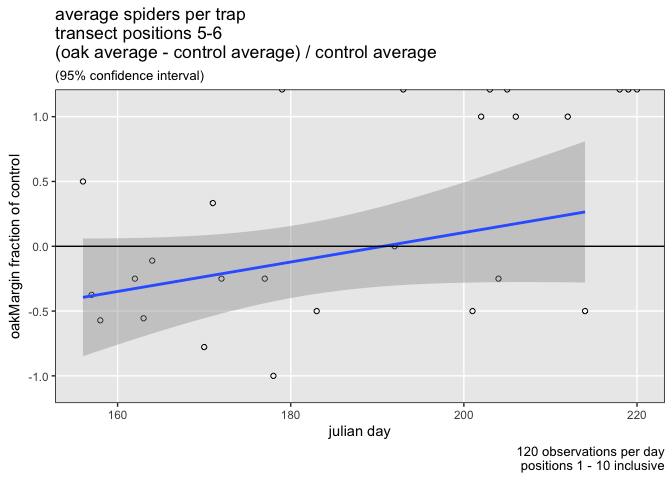
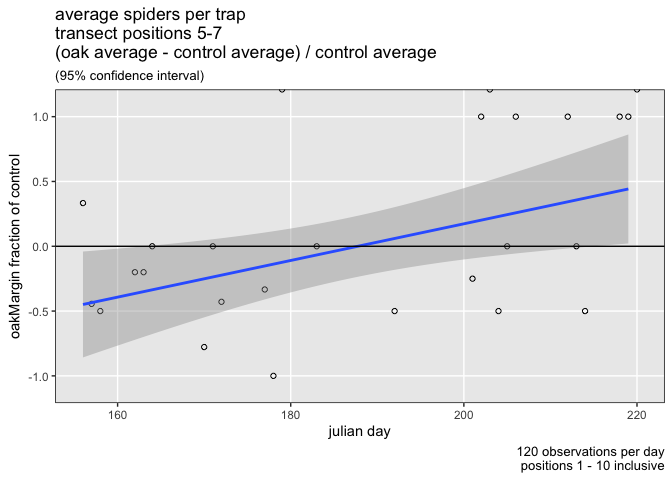
adjust ssegments

diff --git a/README.md b/README.md
@@ -152,8 +152,8 @@ grid.arrange(cl1.gg, cl2.gg, ncol=2, nrow=1)
 
 ![](ampelos_files/figure-markdown_github/unnamed-chunk-7-1.png)
 
-using the control transect as a baseline, how do the populations in the primary transect segments compare over time? (segments are traps 1-4, 5-6, and 7-10)
-------------------------------------------------------------------------------------------------------------------------------------------------------------
+using the control transect as a baseline, how do the populations in the primary transect segments compare over time? (cluster analysis suggests trap segments 1-4, 5-7, and 8-10)
+---------------------------------------------------------------------------------------------------------------------------------------------------------------------------------
 
 #### TO-DO: refine normalization method
 
@@ -170,23 +170,23 @@ g3 <- compareTransectUsingQuosure(data=bugs.df,
 ![](ampelos_files/figure-markdown_github/unnamed-chunk-8-1.png)
 
 ``` r
-positionText <- paste("\ntransect positions ", "5-6", sep="")
+positionText <- paste("\ntransect positions ", "5-7", sep="")
 g46 <- compareTransectUsingQuosure(data=bugs.df, 
                                  species=quo(Thomisidae..crab.spider.), 
                                  operator="BETWEEN",
                                  initialPosition=quo(4), 
-                                 secondaryPosition=quo(7),
+                                 secondaryPosition=quo(8),
                                  positionText)
 ```
 
 ![](ampelos_files/figure-markdown_github/unnamed-chunk-8-2.png)
 
 ``` r
-positionText <- paste("\ntransect positions ", "7-10", sep="")
+positionText <- paste("\ntransect positions ", "8-10", sep="")
 g7 <- compareTransectUsingQuosure(data=bugs.df, 
                                  species=quo(Thomisidae..crab.spider.), 
                                  operator="GT",
-                                 initialPosition=quo(6), 
+                                 initialPosition=quo(7), 
                                  secondaryPosition=quo(0),
                                  positionText)
 ```
